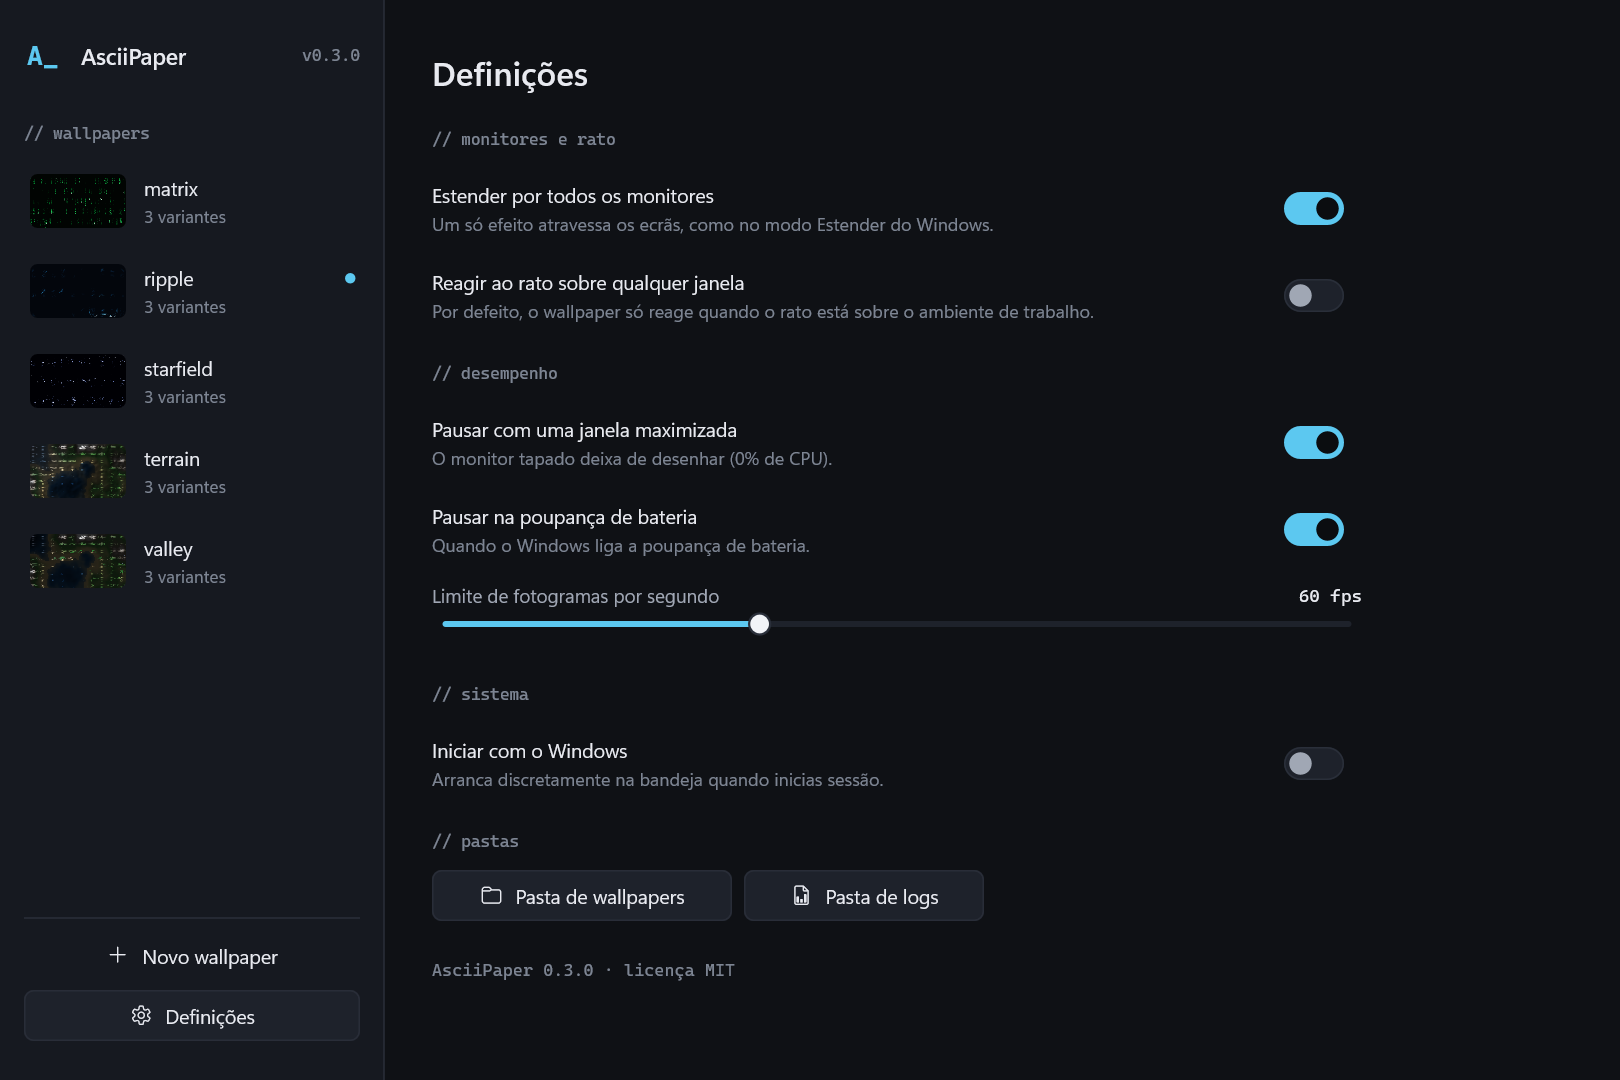
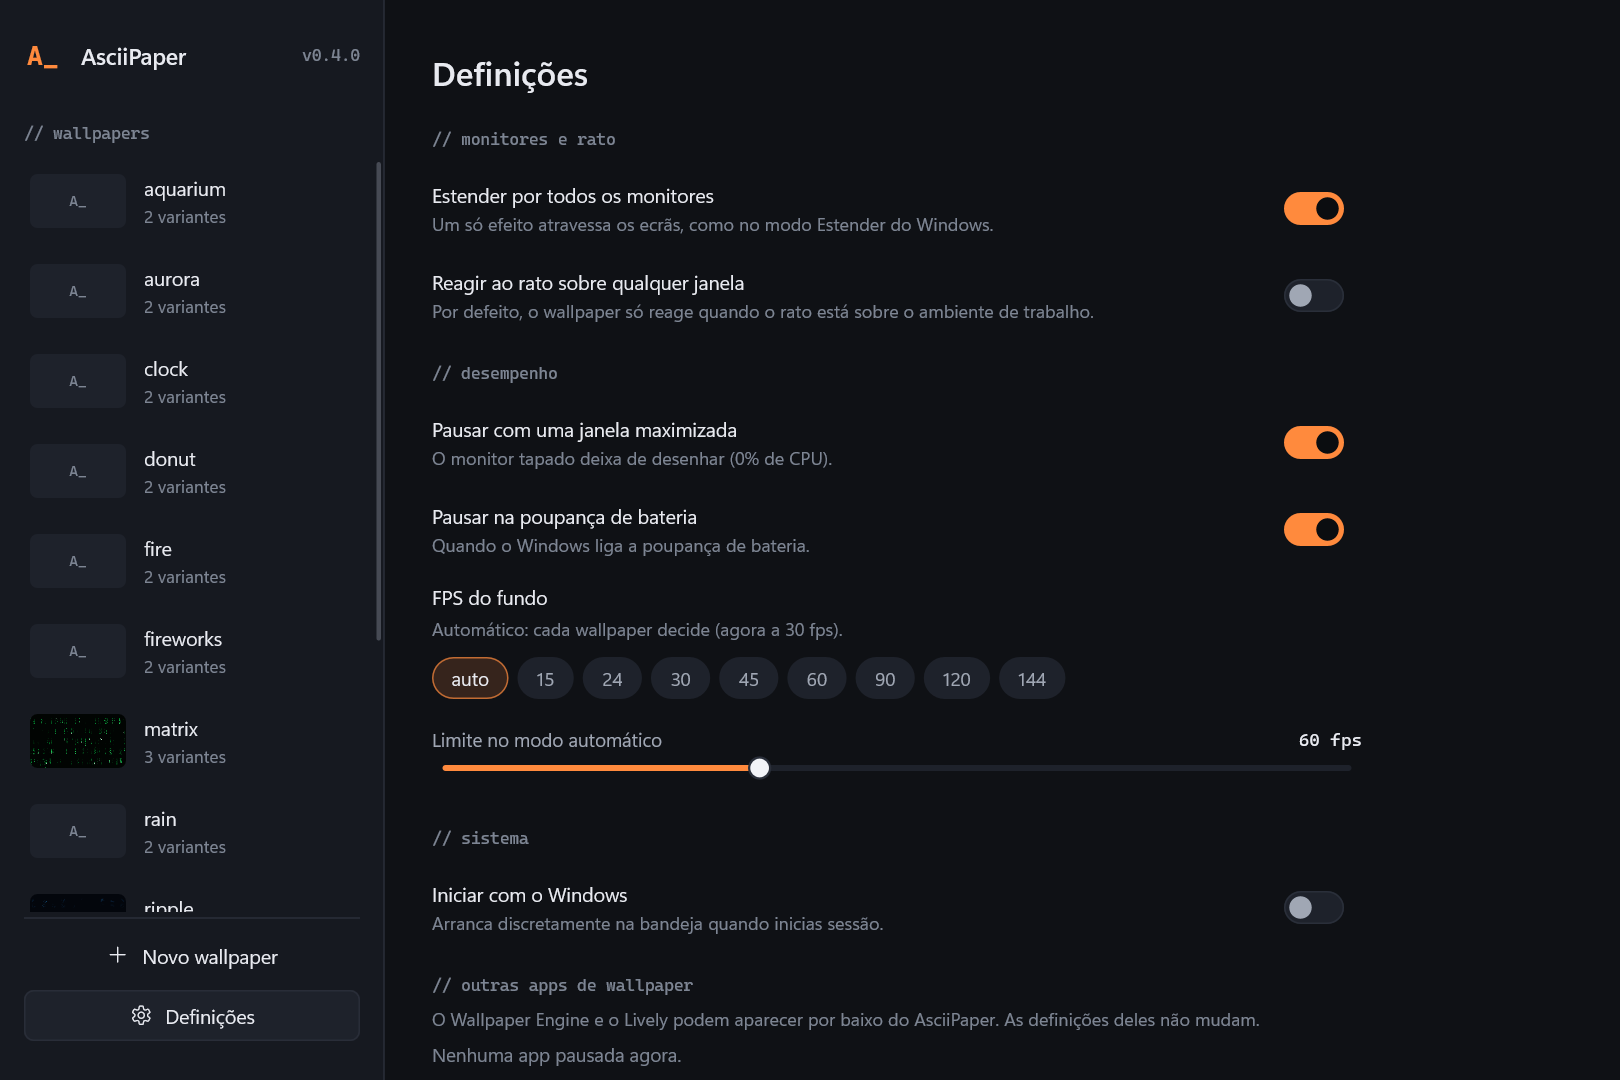
Docs and version 0.4.0

diff --git a/README.md b/README.md
@@ -2,18 +2,26 @@
 
 **Wallpapers ASCII animados e interativos para Windows 10/11**, desenhados atrás dos ícones do ambiente de trabalho. Um único `.exe` nativo e pequeno (C++20, Win32, Direct3D 11), sem browser embutido nem runtime pesado. Cada wallpaper é programável e fácil de partilhar.
 
-| valley | ripple |
-|---|---|
-| ![valley](wallpapers/valley/preview.png) | ![ripple](wallpapers/ripple/preview.png) |
-| **matrix** | **starfield** |
-| ![matrix](wallpapers/matrix/preview.png) | ![starfield](wallpapers/starfield/preview.png) |
+| synthwave | aurora | aquarium |
+|---|---|---|
+| ![synthwave](wallpapers/synthwave/preview.png) | ![aurora](wallpapers/aurora/preview.png) | ![aquarium](wallpapers/aquarium/preview.png) |
+| **valley** | **clock** | **fire** |
+| ![valley](wallpapers/valley/preview.png) | ![clock](wallpapers/clock/preview.png) | ![fire](wallpapers/fire/preview.png) |
 
-> **Estado: alpha (v0.3.0).** Fases 0–3 feitas, mais o launcher e o menu da bandeja (parte da Fase 5). Os wallpapers em Lua (fluid, particles, life, clock) chegam na Fase 4. Ver o [roadmap](#roadmap).
+> **Estado: alpha (v0.4.0).** Fases 0–3 feitas, mais o launcher e o menu da bandeja (parte da Fase 5). Os wallpapers em Lua (fluid, particles, life, clock) chegam na Fase 4. Ver o [roadmap](#roadmap).
 
 ## Efeitos incluídos
 
 | Wallpaper | Interação | Variantes |
 |---|---|---|
+| **synthwave** | pôr do sol retro, sol às riscas, montanhas néon, grelha infinita; o rato move a câmara | `vapor` |
+| **aurora** | aurora boreal sobre montanhas e lago; o rato agita as cortinas; clicar lança uma estrela cadente | `crimson` |
+| **rain** | janela de noite de chuva com a cidade desfocada; passar/arrastar o rato limpa o vidro embaciado | `neon` |
+| **aquarium** | peixes, bolhas, algas e areia; os peixes fogem do rato; clicar deixa cair comida | `abyss` |
+| **clock** | relógio grande em blocos, com data em português e barra dos segundos | `amber` (12 h) |
+| **fire** | fogo ASCII clássico a subir do fundo de cada ecrã; o rato acende chamas; clicar explode | `spirit` |
+| **fireworks** | fogo de artifício sobre a cidade, com rastos; clicar lança um foguete | `gold` |
+| **donut** | o donut 3D do terminal, por raymarching; o rato inclina-o; clicar dá-lhe um empurrão | `sprinkles` |
 | **valley** | mapa vivo: chuvadas, nuvens com sombra, manadas que fogem do rato, pássaros em V, peixes, aldeias que acendem à noite, ciclo dia/noite; clicar faz cair um relâmpago | `autumn`, `miniature` |
 | **ripple** | o rato deixa ondas na água; clicar atira uma pedra; chove de vez em quando | `ember`, `blocks` |
 | **matrix** | chuva de caracteres; as colunas desviam-se do cursor | `amber`, `binary` |
@@ -43,7 +51,11 @@ A interface segue o tema claro/escuro do Windows e usa como cor de destaque a co
 - Recupera sozinha se o **Explorer** reiniciar ou o **driver da GPU** reiniciar.
 - **Ao sair, repõe o wallpaper original** do Windows.
 
-Medido (Release, RTX 4060, 2 monitores 1080p a 60 fps): **0,17% de CPU**, 0,4 ms por frame, ~26 MB de RAM por monitor, primeiro frame em 240 ms, `.exe` de ~0,9 MB.
+Medido (Release, RTX 4060, 2 monitores, valley a 30 fps): **0,7% de CPU**, GPU 0,19 ms por frame, 0 engasgos com o rato a mexer, ~26 MB de RAM por monitor.
+
+- **FPS do fundo** à tua escolha (automático ou 15–144), no menu da bandeja e nas Definições.
+- **O rato não custa nada:** é lido uma vez por frame (sem mensagens por cada movimento) e só conta sobre o ambiente de trabalho; quando sai, os efeitos voltam suavemente ao repouso.
+- **Convive com o Wallpaper Engine e o Lively:** ao arrancar pergunta se os pausa (com os comandos deles, sem mexer nas definições) e ao sair pergunta se os retoma.
 
 ## Instalar e usar
 

diff --git a/CHANGELOG.md b/CHANGELOG.md
@@ -2,6 +2,22 @@
 
 Formato baseado em [Keep a Changelog](https://keepachangelog.com/pt-PT/1.1.0/); versões em [SemVer](https://semver.org/lang/pt-PT/).
 
+## [0.4.0] — 2026-11-20
+
+### Adicionado
+- **8 efeitos novos**, escolhidos a partir de pesquisa sobre o que é mais popular em wallpapers animados e arte ASCII: `synthwave`, `aurora`, `rain` (janela lofi), `aquarium`, `clock`, `fire`, `fireworks`, `donut` — cada um com uma variante.
+- **FPS do fundo**: automático (cada wallpaper decide) ou fixo (15–144), no menu da bandeja e nas Definições (`fps` na config).
+- **Compatibilidade com Wallpaper Engine e Lively**: deteta-os ao arrancar e pergunta se os pausa (Wallpaper Engine: `-control stop`/`play`; Lively: `app --play false/true`, os comandos oficiais deles, sem mexer nas definições); ao sair pergunta se os retoma. "Lembrar a escolha" e opções nas Definições.
+- **Presença do rato** (`mouse.presence`): os efeitos do rato entram e saem com uma transição suave e voltam ao repouso quando o rato sai do fundo.
+- Prelude: `localTime`/`localDate` (relógios), `primaryCenter()`, `primaryCenterWorld()`, `primarySizeWorld()`, `primaryRect()`, `monitorRectAt(c)`.
+- Diagnóstico de desempenho: o `--bench` mede o tempo de GPU (queries de timestamp), o `Present`, os engasgos e as vezes que o loop acorda; o `--verbose` regista o mesmo a cada 5 s e avisa de mensagens lentas.
+- `ideias.md`: brainstorm de efeitos avançados, ordenado.
+
+### Corrigido
+- **O fundo perdia FPS ao mexer o rato** (sobretudo dentro de janelas): o Raw Input com `RIDEV_INPUTSINK` recebia uma mensagem por cada movimento do rato no sistema inteiro, numa fila de input ligada à do Explorer. Agora o rato é lido uma vez por frame (`GetCursorPos` + `GetAsyncKeyState`): medido 500 → 31 despertares/s e 370 → 1 mensagem/s com o rato a mexer, 0 engasgos.
+- `taskkill` sem `/f` voltou a fechar a app com limpeza (o `WM_CLOSE` chegava à janela escondida do launcher).
+- Otimizações de GPU: o valley calcula o relevo só onde há um animal (o HLSL avalia os dois lados de `&&`); o donut salta o raymarching longe do centro.
+
 ## [0.3.0] — 2026-11-20
 
 ### Adicionado
@@ -60,6 +76,7 @@ Primeira versão alpha: **Fases 0 e 1** (esqueleto + integração com o desktop)
 - Modo `--windowed` para desenvolvimento.
 - Testes unitários (doctest): geometria/coordenadas do ecrã virtual, DPI, política de pausas, argumentos.
 
+[0.4.0]: ../../releases/tag/v0.4.0
 [0.3.0]: ../../releases/tag/v0.3.0
 [0.2.0]: ../../releases/tag/v0.2.0
 [0.1.0]: ../../releases/tag/v0.1.0

diff --git a/docs/CREATING_WALLPAPERS.md b/docs/CREATING_WALLPAPERS.md
@@ -110,11 +110,12 @@ No modo estendido (por defeito), `grid` e `worldSize` cobrem **todos** os monito
 | `mouse.pos`, `mouse.world` | posição em células / em mundo (pode estar fora da grelha) |
 | `mouse.vel`, `mouse.velWorld` | velocidade suavizada (células/s, mundo/s) |
 | `mouse.clickWorld` | onde foi o último clique, em mundo |
+| `mouse.presence` | 0..1 suave: **multiplica os efeitos do rato por isto**. Sobe quando o rato entra no fundo e desce devagar quando sai; enquanto desce, `mouse.pos` fica na última posição. Para parallax: `lerp(neutro, alvo, mouse.presence)` |
 | `mouse.inside` | o rato está sobre o ambiente de trabalho deste monitor |
 | `mouse.buttons` | `MOUSE_LEFT`, `MOUSE_RIGHT`, `MOUSE_MIDDLE` (só cliques que começaram no desktop) |
 | `mouse.clickPos`, `mouse.clickTime`, `mouse.clickButton` | último clique |
 | `justClicked()` | o clique aconteceu neste frame |
-| `mouse.scroll` | entalhes de scroll neste frame |
+| `mouse.scroll` | reservado (sempre 0: o rato é lido sem mensagens desde a v0.4) |
 
 Por defeito o wallpaper só reage quando o rato está **sobre o desktop** (não sobre outras janelas). Muda com `interaction = "always"` no `config.toml`.
 
@@ -126,6 +127,10 @@ Por defeito o wallpaper só reage quando o rato está **sobre o desktop** (não 
 | `prev(int2 c)` | o `state` que a célula `c` escreveu no frame anterior (fora da grelha = borda) |
 | `glyph(k)` | para `o.glyph`: o caractere `k` da lista `glyphs` do toml (sprites: animais, pássaros...) |
 | `visible(int2 c)` | a célula `c` está dentro de algum monitor? |
+| `primaryCenterWorld()`, `primarySizeWorld()` | centro e tamanho do monitor principal em mundo (para centrar um relógio, um sol, um modelo 3D) |
+| `primaryCenter()`, `primaryRect()` | o mesmo em células |
+| `monitorRectAt(int2 c)` | retângulo (células) do monitor onde está `c`: o "chão" de cada ecrã para fogo, areia, aquários |
+| `localTime`, `localDate` | hora (h, m, s com fração) e data (ano, mês, dia, dia da semana) locais |
 | `cellDistance(a, b)` | distância em alturas de célula, corrigida para ficar redonda no ecrã |
 | `noise(p)`, `fbm(p)` | ruído suave em [0,1], 2D ou 3D; `fbm` soma 5 oitavas |
 | `hash11`, `hash21`, `hash22`, `hash33` | pseudo-aleatório em [0,1) |
